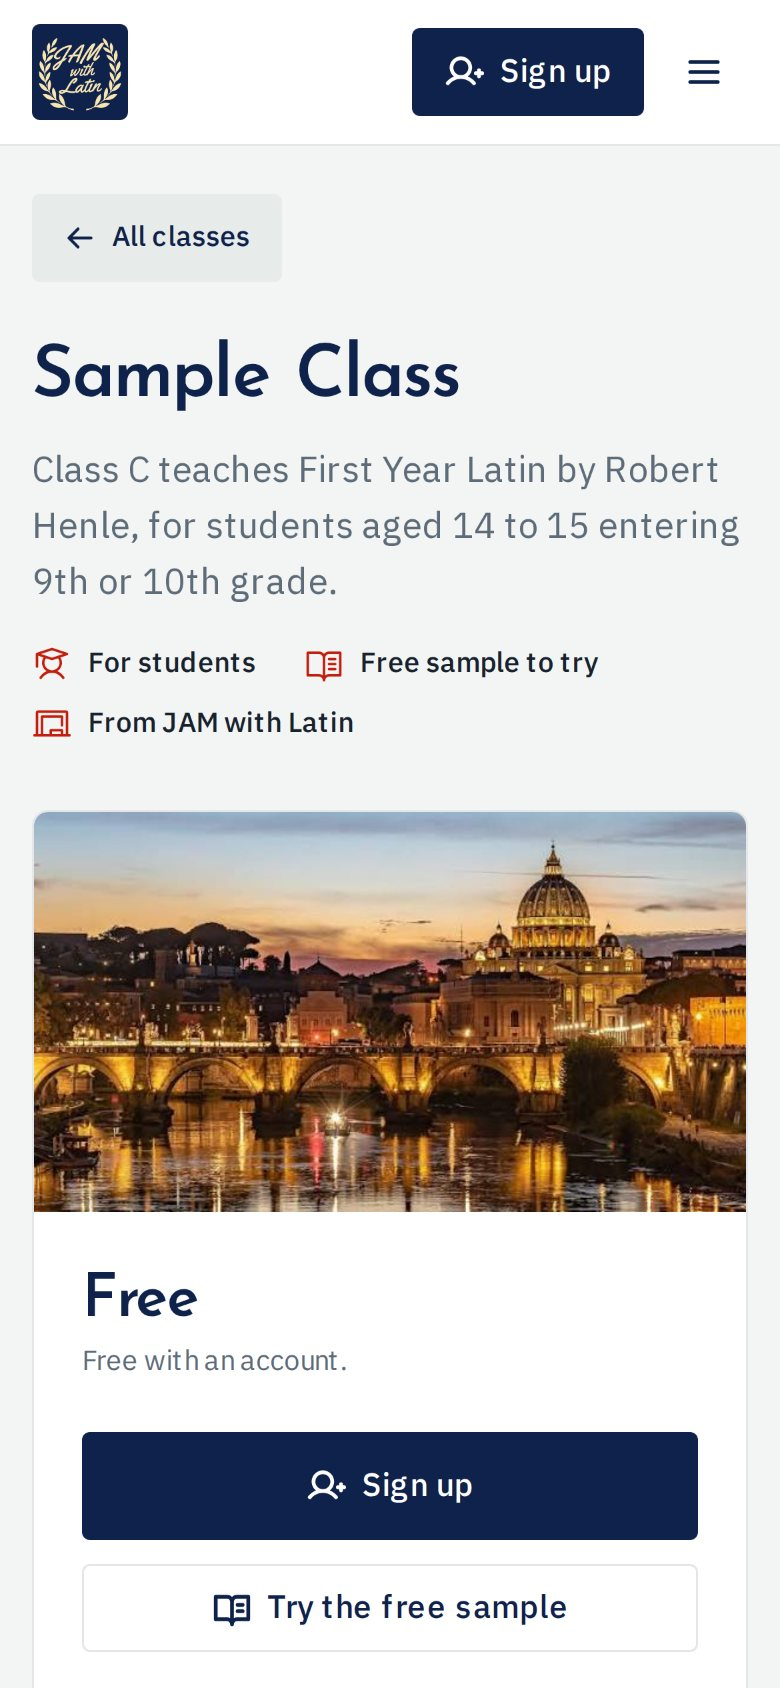
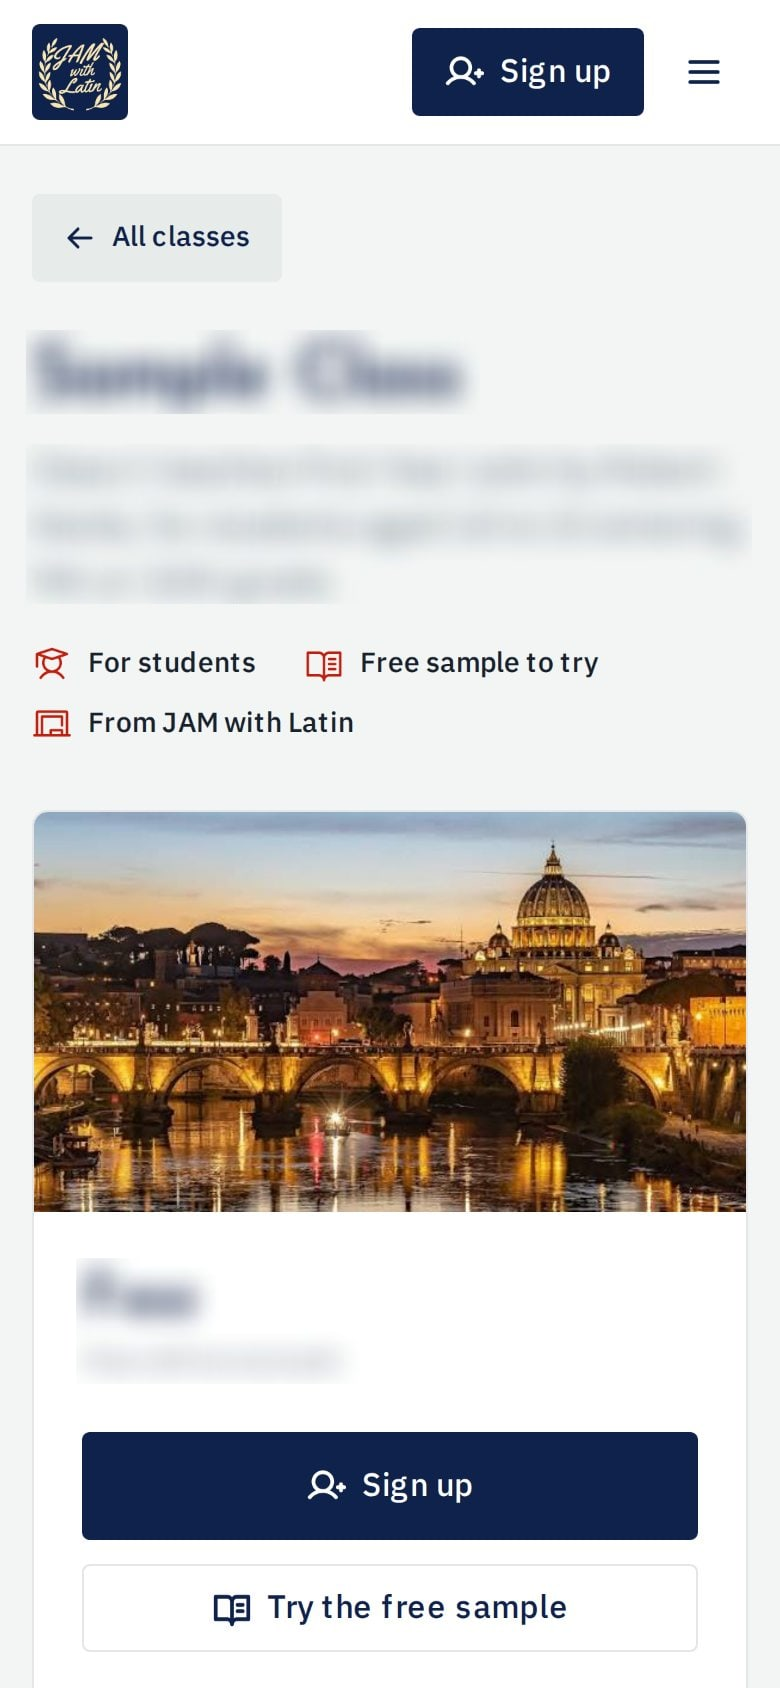
Lock in the cinematic home page: JAM Classes general and coming soon, phone fixes, new headline (T-364)
- JAM Classes screens have class names, prices, figures and descriptions
  blurred; its copy is general (an online school for a homeschool Latin
  programme) and every JAM screen and chapter is marked Coming soon.
- The class platform is called Farzana Classroom on the home page; phones
  show three of its five screens.
- Phones: the hero screen lies back and stands up as it comes into view,
  the What we make lines stay on screen and fully lit, cards fade in sooner.
- Device frames: screens clipped to rounded corners concentric with the
  bezel, so no square corners show under the tilt in Safari.
- Headline: Made to be used. / Made to be yours., also in the page title
  and a new social preview image.

Claude-Session: https://claude.ai/code/session_01XyyhVjejijTBFQvyN8XL1S

Changed region(s): [[0.0308, 0.1848, 0.9538, 0.3697], [0.0923, 0.7393, 0.2769, 0.8318], [0.3077, 0.8009, 0.4308, 0.8318]]

diff --git a/src/app/page.tsx b/src/app/page.tsx
@@ -6,45 +6,63 @@ import Scroll from '@/components/cinematic/Scroll'
 import { INQUIRE_CTA, INQUIRE_PATH } from '@/lib/contact'
 import { OFFER, PROJECTS, SHOTS, type Shot } from '@/lib/work'
 
+const DESCRIPTION =
+  'Websites and iPhone and Android apps for churches, schools and small businesses, designed, built and looked after by Kingdom Sites.'
+
 export const metadata: Metadata = {
-  title: 'Kingdom Sites — websites and apps, made to be used',
-  description:
-    'Websites and iPhone and Android apps for churches, schools and small businesses, designed, built and looked after by Kingdom Sites.',
+  title: 'Kingdom Sites — Made to be used. Made to be yours.',
+  description: DESCRIPTION,
   alternates: { canonical: '/' },
+  openGraph: {
+    title: 'Kingdom Sites — Made to be used. Made to be yours.',
+    description: DESCRIPTION,
+    url: 'https://kingdom-sites.com',
+    siteName: 'Kingdom Sites',
+    locale: 'en_US',
+    type: 'website',
+  },
+  twitter: { card: 'summary_large_image', title: 'Kingdom Sites — Made to be used. Made to be yours.', description: DESCRIPTION },
 }
 
-/* The Farzana story, one chapter per screen. */
-const CHAPTERS: { shot: Shot; url?: string; kicker: string; title: string; body: string }[] = [
+/* The Farzana Classroom story, one chapter per screen. JAM Classes is not open
+   yet: its screens have the class details blurred, and say so. On a phone the
+   story is told in three screens; `deskOnly` chapters show on wider screens. */
+const CHAPTERS: { shot: Shot; url?: string; kicker: string; title: string; body: string; soon?: boolean; deskOnly?: boolean }[] = [
   {
     shot: SHOTS.farzanaSite,
     url: 'farzana.app',
-    kicker: 'Farzana',
+    kicker: 'Farzana Classroom',
     title: 'A platform for schools.',
     body: 'Education software for schools, training organizations and education businesses. One proven platform, with each school’s own features built on top.',
   },
   {
     shot: SHOTS.jamClasses,
     kicker: 'JAM Classes',
-    title: 'A school, running on it.',
-    body: 'JAM with Latin runs its online school on Farzana: classes, flashcards and workbooks, each on its own page.',
+    title: 'A school, built on it.',
+    body: 'An online school for a homeschool Latin programme, built on Farzana Classroom: classes, families and payments in one place.',
+    soon: true,
   },
   {
     shot: SHOTS.jamClass,
     kicker: 'JAM Classes',
-    title: 'A page that sells the class.',
-    body: 'What it teaches, who it is for, and a free sample to try before anyone pays.',
+    title: 'A page for every class.',
+    body: 'Families see what each class is and who it is for, try a sample, and sign up.',
+    soon: true,
+    deskOnly: true,
   },
   {
     shot: SHOTS.jamAdminHome,
     kicker: 'For the teacher',
     title: 'The teacher’s desk.',
     body: 'Students, who was active this week, the month’s sales and every class, on one screen.',
+    soon: true,
   },
   {
     shot: SHOTS.farzanaStudents,
     kicker: 'For the office',
     title: 'Every student, findable.',
     body: 'Search by name. Filter by class, by progress, by when they joined.',
+    deskOnly: true,
   },
 ]
 
@@ -57,7 +75,10 @@ export default function Home() {
       <Scroll mode="sticky" className="cn-hero" aria-label="Kingdom Sites">
         <div className="cn-wrap pt-16 sm:pt-24">
           <p className="cn-kicker">Websites · iPhone and Android apps · Looked after once live</p>
-          <h1 className="cn-display cn-h1 mt-5 max-w-[11ch]">Made to be used.</h1>
+          <h1 className="cn-display cn-h1 mt-5">
+            <span className="block">Made to be used.</span>
+            <span className="block">Made to be yours.</span>
+          </h1>
           <div className="mt-8 grid gap-8 lg:grid-cols-[1.2fr_1fr] lg:items-end">
             <p className="cn-body max-w-[46ch]">
               Kingdom Sites designs and builds websites and apps for churches, schools and small businesses, then looks
@@ -73,19 +94,19 @@ export default function Home() {
             </div>
           </div>
         </div>
-        <div className="cn-wrap cn-stage relative mt-14 pb-32 sm:mt-20 sm:pb-48">
+        <Scroll prop="--q" className="cn-wrap cn-stage relative mt-14 pb-32 sm:mt-20 sm:pb-48">
           <div className="cn-tilt mx-auto max-w-[1180px]">
-            <Browser shot={SHOTS.jamAdminHome} priority />
+            <Browser shot={SHOTS.jamAdminHome} tag="Coming soon" priority />
           </div>
           <div className="cn-tilt-phone absolute bottom-0 right-[6%] w-[30%] max-w-[250px] sm:right-[8%] sm:w-[19%]">
             <Phone shot={SHOTS.jamClassPhone} priority />
           </div>
-        </div>
+        </Scroll>
       </Scroll>
 
       {/* The Farzana story: the stage holds still, the screens change by chapter. */}
       <div id="farzana" className="scroll-mt-16" />
-      <Scroll mode="sticky" steps={CHAPTERS.length} className="cn-scene" aria-label="Farzana and JAM Classes">
+      <Scroll mode="sticky" steps={CHAPTERS.length} className="cn-scene" aria-label="Farzana Classroom and JAM Classes">
         <div style={{ height: `${CHAPTERS.length * 85}svh` }} className="cn-scene-h">
           <div className="cn-pin">
             <div className="cn-wrap w-full">
@@ -96,6 +117,7 @@ export default function Home() {
                       <div key={c.title} className={`cn-chapter cn-c${i}`}>
                         <p className="cn-kicker">
                           {String(i + 1).padStart(2, '0')} · {c.kicker}
+                          {c.soon ? <span className="cn-soon">Coming soon</span> : null}
                         </p>
                         <h2 className="cn-display cn-h3 mt-4">{c.title}</h2>
                         <p className="cn-body mt-5 max-w-[36ch]">{c.body}</p>
@@ -111,18 +133,19 @@ export default function Home() {
                 <div className="cn-screens">
                   {CHAPTERS.map((c, i) => (
                     <div key={c.title} className={`cn-screen cn-c${i}`}>
-                      <Browser shot={c.shot} url={c.url} />
+                      <Browser shot={c.shot} url={c.url} tag={c.soon ? 'Coming soon' : undefined} />
                     </div>
                   ))}
                 </div>
 
                 {/* On a phone: the same chapters, one after another. */}
                 <div className="cn-stack">
-                  {CHAPTERS.map((c, i) => (
+                  {CHAPTERS.filter((c) => !c.deskOnly).map((c, i) => (
                     <div key={c.title}>
-                      <Browser shot={c.shot} url={c.url} />
+                      <Browser shot={c.shot} url={c.url} tag={c.soon ? 'Coming soon' : undefined} />
                       <p className="cn-kicker mt-6">
                         {String(i + 1).padStart(2, '0')} · {c.kicker}
+                        {c.soon ? <span className="cn-soon">Coming soon</span> : null}
                       </p>
                       <h2 className="cn-display cn-h3 mt-3">{c.title}</h2>
                       <p className="cn-body mt-3">{c.body}</p>
@@ -137,7 +160,7 @@ export default function Home() {
 
       <div className="cn-wrap mt-10 flex justify-center lg:mt-0">
         <Link href="/work/farzana" className="cn-ghost">
-          The whole Farzana story <span aria-hidden="true">→</span>
+          The whole Farzana Classroom story <span aria-hidden="true">→</span>
         </Link>
       </div>
 

diff --git a/src/components/cinematic/cinematic.css b/src/components/cinematic/cinematic.css
@@ -43,21 +43,34 @@
 .cn-ghost { display: inline-flex; align-items: center; gap: 10px; min-height: 48px; padding: 0 20px; border-radius: 999px; border: 1px solid var(--line); font-size: 15px; transition: border-color 0.2s; }
 .cn-ghost:hover { border-color: rgba(239, 235, 227, 0.4); }
 
-/* Device frames, drawn in CSS around real screenshots. */
-.cn-browser { border-radius: 14px; overflow: hidden; background: #1b1b1e; box-shadow: 0 0 0 1px rgba(255, 255, 255, 0.07), 0 40px 120px rgba(0, 0, 0, 0.6); }
+/* Device frames, drawn in CSS around real screenshots. Each screen is clipped to
+   its own rounded shape, concentric with the frame (inner radius = outer radius
+   minus the bezel), and the clip is a clip-path so it holds in Safari under the
+   3D tilt, where overflow + border-radius can let square corners through. */
+.cn-browser { --r: 14px; position: relative; border-radius: var(--r); overflow: hidden; isolation: isolate; background: #1b1b1e; box-shadow: 0 0 0 1px rgba(255, 255, 255, 0.07), 0 40px 120px rgba(0, 0, 0, 0.6); }
 .cn-browser-bar { display: flex; align-items: center; gap: 8px; height: 34px; padding: 0 14px; background: #1b1b1e; }
 .cn-browser-bar i { width: 10px; height: 10px; border-radius: 50%; background: #3a3a3e; }
 .cn-browser-url { margin-left: 14px; flex: 1; max-width: 340px; height: 22px; border-radius: 6px; background: #26262a; font-size: 12px; color: var(--dim); display: flex; align-items: center; padding: 0 10px; }
-.cn-browser img { display: block; width: 100%; height: auto; }
-.cn-phone { position: relative; border-radius: clamp(26px, 3.4vw, 46px); padding: clamp(5px, 0.6vw, 9px); background: #050505; box-shadow: 0 0 0 1px rgba(255, 255, 255, 0.1), 0 30px 80px rgba(0, 0, 0, 0.6); }
-.cn-phone img { display: block; width: 100%; height: auto; border-radius: clamp(21px, 2.9vw, 38px); }
+.cn-browser img { display: block; width: 100%; height: auto; border-radius: 0 0 var(--r) var(--r); clip-path: inset(0 round 0 0 var(--r) var(--r)); }
+.cn-browser-tag { position: absolute; top: 6px; right: 12px; height: 22px; display: inline-flex; align-items: center; padding: 0 10px; border-radius: 999px; border: 1px solid var(--line); font-size: 11px; letter-spacing: 0.08em; text-transform: uppercase; color: #cfcbc3; font-weight: 500; }
+.cn-phone { --r: clamp(26px, 3.4vw, 46px); --b: clamp(5px, 0.6vw, 9px); position: relative; border-radius: var(--r); padding: var(--b); background: #050505; box-shadow: 0 0 0 1px rgba(255, 255, 255, 0.1), 0 30px 80px rgba(0, 0, 0, 0.6); }
+.cn-phone img { display: block; width: 100%; height: auto; border-radius: calc(var(--r) - var(--b)); clip-path: inset(0 round calc(var(--r) - var(--b))); }
+
+/* "Coming soon", in the kicker's own voice: an outline, not a sticker. */
+.cn-soon { display: inline-block; margin-left: 10px; padding: 3px 9px; border: 1px solid var(--line); border-radius: 999px; font-size: 11px; letter-spacing: 0.08em; color: #cfcbc3; vertical-align: 1px; white-space: nowrap; }
 
 /* ---------- Hero: the screen lies back, and stands up as you scroll ---------- */
 .cn-hero { position: relative; }
 .cn-stage { perspective: 1600px; perspective-origin: 50% 0%; }
 .cn-tilt { transform-origin: 50% 0%; transform: rotateX(calc(28deg * max(0, 1 - var(--p, 0) * 2.2))) scale(min(1, calc(0.88 + var(--p, 0) * 0.3))); will-change: transform; }
 .cn-tilt-phone { transform: translateY(calc(140px - var(--p, 0) * 420px)); will-change: transform; }
-@media (max-width: 759px) { .cn-tilt-phone { transform: translateY(calc(40px - var(--p, 0) * 160px)); } }
+/* On a phone the hero's text fills the first screen, so the stand-up follows the
+   stage itself (`--q`): it lies back as it comes into view and is upright by the
+   time its top is about a third of the way down the screen. */
+@media (max-width: 759px) {
+  .cn-tilt { transform: rotateX(calc(28deg * max(0, 1 - var(--q, 0) * 2.6))) scale(min(1, calc(0.88 + var(--q, 0) * 0.32))); }
+  .cn-tilt-phone { transform: translateY(calc(60px - var(--q, 0) * 200px)); }
+}
 
 /* ---------- Chaptered scene: pinned stage, screens change by chapter ---------- */
 .cn-scene { position: relative; }
@@ -77,6 +90,7 @@
 
 /* ---------- Depth row: phones drift at different speeds ---------- */
 .cn-depth { display: grid; grid-template-columns: repeat(4, minmax(0, 1fr)); gap: clamp(10px, 2vw, 32px); align-items: start; }
+.cn-depth > * { will-change: transform; }
 .cn-depth > :nth-child(1) { transform: translateY(calc(80px - var(--p, 0) * 160px)); }
 .cn-depth > :nth-child(2) { transform: translateY(calc(200px - var(--p, 0) * 360px)); }
 .cn-depth > :nth-child(3) { transform: translateY(calc(40px - var(--p, 0) * 80px)); }
@@ -84,9 +98,16 @@
 
 /* ---------- Lines that come on as they cross the middle ---------- */
 .cn-lit { opacity: calc(0.18 + min(1, max(0, (var(--p, 0) - 0.25) * 4)) * 0.82); transform: translateX(calc((1 - min(1, max(0, (var(--p, 0) - 0.2) * 3))) * -24px)); }
+/* On a phone the gutter is too narrow to slide in from the left, and the
+   middle of the screen comes late: rise a little instead, fully lit by the
+   time the line is in the lower part of the screen. */
+@media (max-width: 759px) {
+  .cn-lit { opacity: calc(0.25 + min(1, max(0, (var(--p, 0) - 0.08) * 6)) * 0.75); transform: translateY(calc((1 - min(1, max(0, (var(--p, 0) - 0.05) * 5))) * 20px)); }
+}
 
 /* ---------- Reveal: rises in as it enters ---------- */
 .cn-reveal { opacity: calc(min(1, var(--p, 0) * 3.2)); transform: translateY(calc((1 - min(1, var(--p, 0) * 3)) * 60px)); }
+@media (max-width: 759px) { .cn-reveal { opacity: calc(min(1, var(--p, 0) * 5)); transform: translateY(calc((1 - min(1, var(--p, 0) * 5)) * 40px)); } }
 
 .cn-card { border-top: 1px solid var(--line); padding-top: 18px; }
 .cn-foot { border-top: 1px solid var(--line); padding-block: 28px 44px; font-size: 14px; color: var(--dim); }

diff --git a/src/lib/work.ts b/src/lib/work.ts
@@ -14,11 +14,11 @@ export const SHOTS = {
   farzanaSitePhone: { src: '/work/farzana-site-phone.jpg', alt: 'Farzana’s home page on a phone', w: 780, h: 1688 },
   farzanaStudents: { src: '/work/farzana-students.jpg', alt: 'Farzana’s student list, with search and filters', w: 1800, h: 1125 },
   farzanaStudentsPhone: { src: '/work/farzana-students-phone.jpg', alt: 'Farzana’s student list on a phone', w: 780, h: 1688 },
-  jamAdminHome: { src: '/work/jam-admin-home.jpg', alt: 'JAM Classes, the teacher’s home: students, weekly activity, sales and classes', w: 1800, h: 1125 },
-  jamAdminClasses: { src: '/work/jam-admin-classes.jpg', alt: 'JAM Classes, the teacher’s list of classes', w: 1800, h: 1125 },
-  jamClass: { src: '/work/jam-class.jpg', alt: 'A JAM Classes class page: First Year Latin, free to start, with a free sample', w: 1800, h: 1125 },
-  jamClassPhone: { src: '/work/jam-class-phone.jpg', alt: 'A JAM Classes class page on a phone', w: 780, h: 1688 },
-  jamClasses: { src: '/work/jam-classes.jpg', alt: 'JAM Classes, the public list of classes', w: 1800, h: 1125 },
+  jamAdminHome: { src: '/work/jam-admin-home.jpg', alt: 'JAM Classes, the teacher’s home, with the figures and class names blurred: students, weekly activity, sales and classes', w: 1800, h: 1125 },
+  jamAdminClasses: { src: '/work/jam-admin-classes.jpg', alt: 'JAM Classes, the teacher’s list of classes, with the class names blurred', w: 1800, h: 1125 },
+  jamClass: { src: '/work/jam-class.jpg', alt: 'A JAM Classes class page, with the class details blurred', w: 1800, h: 1125 },
+  jamClassPhone: { src: '/work/jam-class-phone.jpg', alt: 'A JAM Classes class page on a phone, with the class details blurred', w: 780, h: 1688 },
+  jamClasses: { src: '/work/jam-classes.jpg', alt: 'JAM Classes, the public list of classes, with the class details blurred', w: 1800, h: 1125 },
   latinHome: { src: '/latin-game/home.jpg', alt: 'Jam with Latin, the home screen', w: 660, h: 1434 },
   latinMap: { src: '/latin-game/map.jpg', alt: 'Jam with Latin, the journey map across the Roman world', w: 660, h: 1434 },
   latinCase: { src: '/latin-game/case-challenge.jpg', alt: 'Jam with Latin, a case challenge', w: 660, h: 1434 },
@@ -55,7 +55,7 @@ export const PROJECTS: Project[] = [
     forWhom: 'Schools and education businesses',
     line: 'Education software for schools, training organizations and education businesses. One proven platform, with the features each school actually needs built on top.',
     platforms: 'Web, phone and desktop',
-    status: 'In beta with its first school',
+    status: 'In beta, first school coming soon',
     href: 'https://farzana.app',
   },
   {
@@ -63,9 +63,9 @@ export const PROJECTS: Project[] = [
     name: 'JAM Classes',
     kind: 'School',
     forWhom: 'JAM with Latin',
-    line: 'JAM with Latin’s online school, running on Farzana: classes week by week, flashcards, workbooks sold as PDFs, free samples, sign-up and payment.',
+    line: 'An online school for a homeschool Latin programme, built on Farzana: classes, families and payments in one place.',
     platforms: 'Web, phone and desktop',
-    status: 'First school on Farzana',
+    status: 'Coming soon',
   },
   {
     slug: 'jam-with-latin',

diff --git a/src/app/work/farzana/page.tsx b/src/app/work/farzana/page.tsx
@@ -8,7 +8,7 @@ import { PROJECTS, SHOTS } from '@/lib/work'
 
 export const metadata: Metadata = {
   title: 'Farzana and JAM Classes',
-  description: 'How Kingdom Sites built Farzana, education software for schools, and JAM Classes, the first school running on it.',
+  description: 'How Kingdom Sites built Farzana, education software for schools, and JAM Classes, the first school coming to it.',
   alternates: { canonical: '/work/farzana' },
 }
 
@@ -43,11 +43,11 @@ export default function FarzanaCase() {
             </dl>
           </div>
         </div>
-        <div className="cn-wrap cn-stage mt-14 pb-24 sm:mt-20 sm:pb-36">
+        <Scroll prop="--q" className="cn-wrap cn-stage mt-14 pb-24 sm:mt-20 sm:pb-36">
           <div className="cn-tilt mx-auto max-w-[1180px]">
             <Browser shot={SHOTS.farzanaSite} url="farzana.app" priority />
           </div>
-        </div>
+        </Scroll>
       </Scroll>
 
       <section aria-labelledby="idea" className="cn-wrap mt-10 grid gap-8 lg:grid-cols-[1fr_1.2fr]">
@@ -64,21 +64,23 @@ export default function FarzanaCase() {
 
       {/* Two sides of one school. */}
       <section aria-labelledby="sides" className="cn-wrap mt-32 sm:mt-44">
-        <p className="cn-kicker">The first school</p>
+        <p className="cn-kicker">
+          The first school<span className="cn-soon">Coming soon</span>
+        </p>
         <h2 id="sides" className="cn-display cn-h2 mt-4 max-w-[14ch]">JAM Classes, both sides of the desk.</h2>
         <div className="mt-14 grid gap-14 lg:grid-cols-2 lg:gap-10">
           <Scroll>
             <div className="cn-reveal">
-              <Browser shot={SHOTS.jamClass} />
+              <Browser shot={SHOTS.jamClass} tag="Coming soon" />
               <h3 className="cn-display cn-h3 mt-8">What a family sees</h3>
               <p className="cn-body mt-3 max-w-[40ch]">
-                A page for each class: what it teaches, who it is for, the price, and a free sample before anyone signs up.
+                A page for each class: what it is, who it is for, and a sample to try before signing up.
               </p>
             </div>
           </Scroll>
           <Scroll>
             <div className="cn-reveal lg:mt-40">
-              <Browser shot={SHOTS.jamAdminClasses} />
+              <Browser shot={SHOTS.jamAdminClasses} tag="Coming soon" />
               <h3 className="cn-display cn-h3 mt-8">What the teacher sees</h3>
               <p className="cn-body mt-3 max-w-[40ch]">
                 Every class with its own picture, and at a glance what is published and what has changes not live yet.

diff --git a/src/components/cinematic/Scroll.tsx b/src/components/cinematic/Scroll.tsx
@@ -12,17 +12,22 @@ import { useEffect, useRef } from 'react'
  *   its bottom reaches the bottom. For a pinned stage inside a tall section;
  *   it also sets `data-step` (0 to steps - 1) for chaptered scenes.
  *
+ * `prop` names the CSS variable (default `--p`), so a section can carry a
+ * second, nested progress without hiding its parent's.
+ *
  * One passive scroll listener and one frame per change; nothing runs while the
  * page is still.
  */
 export default function Scroll({
   mode = 'through',
+  prop = '--p',
   steps,
   className,
   children,
   ...rest
 }: {
   mode?: 'through' | 'sticky'
+  prop?: `--${string}`
   steps?: number
   className?: string
   children: React.ReactNode
@@ -39,7 +44,7 @@ export default function Scroll({
       const vh = window.innerHeight
       const raw = mode === 'sticky' ? -r.top / Math.max(1, r.height - vh) : (vh - r.top) / (r.height + vh)
       const p = Math.min(1, Math.max(0, raw))
-      el.style.setProperty('--p', p.toFixed(4))
+      el.style.setProperty(prop, p.toFixed(4))
       if (steps) el.dataset.step = String(Math.min(steps - 1, Math.floor(p * steps)))
     }
     const onScroll = () => {
@@ -53,7 +58,7 @@ export default function Scroll({
       window.removeEventListener('resize', onScroll)
       cancelAnimationFrame(frame)
     }
-  }, [mode, steps])
+  }, [mode, prop, steps])
 
   return (
     <div ref={ref} className={className} data-step={steps ? 0 : undefined} {...rest}>

diff --git a/src/components/cinematic/Frames.tsx b/src/components/cinematic/Frames.tsx
@@ -2,7 +2,7 @@ import Image from 'next/image'
 import type { Shot } from '@/lib/work'
 
 /* Real screenshots in drawn frames. The files are already sized for the page. */
-export function Browser({ shot, url, priority }: { shot: Shot; url?: string; priority?: boolean }) {
+export function Browser({ shot, url, tag, priority }: { shot: Shot; url?: string; tag?: string; priority?: boolean }) {
   return (
     <div className="cn-browser">
       <div className="cn-browser-bar" aria-hidden="true">
@@ -11,6 +11,7 @@ export function Browser({ shot, url, priority }: { shot: Shot; url?: string; pri
         <i />
         {url ? <span className="cn-browser-url">{url}</span> : null}
       </div>
+      {tag ? <span className="cn-browser-tag">{tag}</span> : null}
       <Image src={shot.src} alt={shot.alt} width={shot.w} height={shot.h} priority={priority} unoptimized />
     </div>
   )
